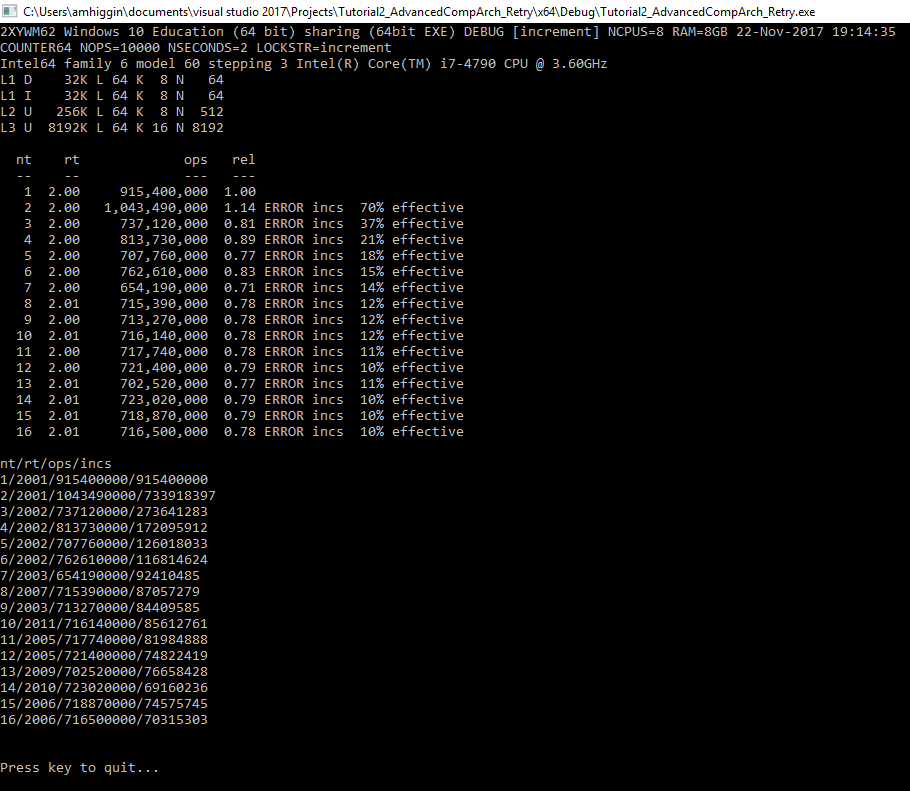
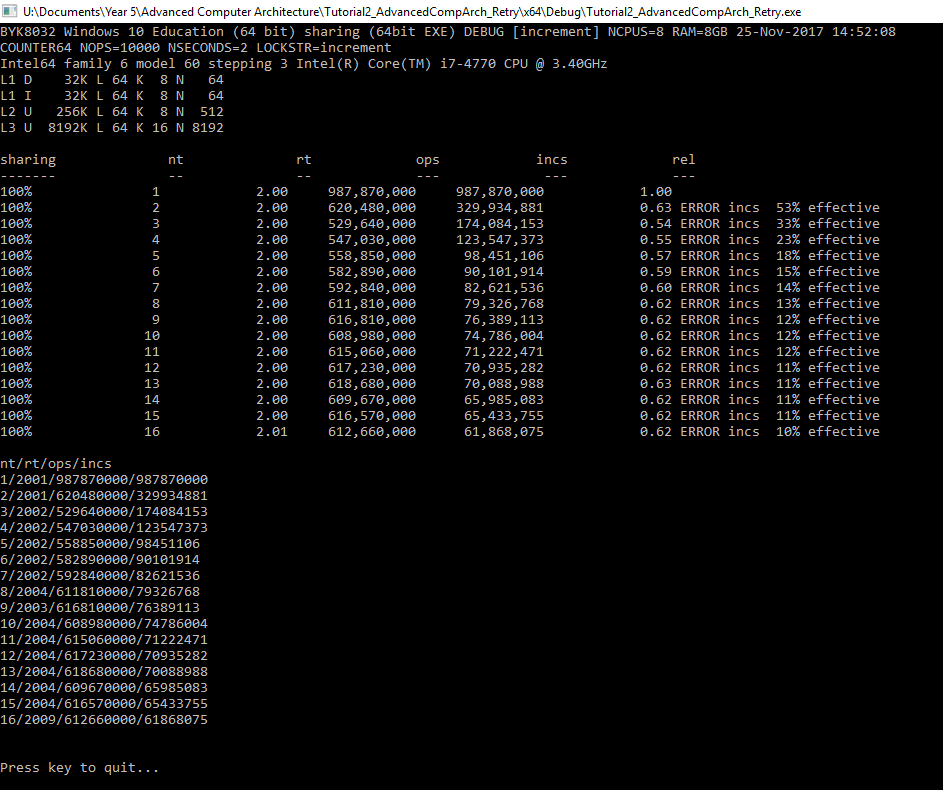
Making changes in line with requirements
Only wanted to have 100% sharing case investigated. Have removed the
bakery lock mfences for the moment so that I can see what ones are the
most effective once I have figured out the rest!

diff --git a/sharing.cpp b/sharing.cpp
@@ -113,7 +113,7 @@ int nt = 1;
 // 3::TestAndTestAndSetLock
 // 4::MCSLock
 //
-#define LOCKTYP       4                           // set op type
+#define LOCKTYP       4                          // set op type
 
 #if LOCKTYP == 0
 #define LOCKSTR       "increment"
@@ -183,32 +183,25 @@ WORKER worker(void *vthread)
 	
 	int thread = (int)((size_t)vthread);
 
+	// counter for number of operations performed by this thread
 	UINT64 n = 0;
 
 	volatile VINT *gt = GINDX(thread);
 	volatile VINT *gs = GINDX(maxThread);
 
-	runThreadOnCPU(thread % ncpu);
-
-	while (1) {
+	do {
 
 		//
 		// do some work
 		//
 		for (int i = 0; i < NOPS; i++) {
-			// note removed sharing-specific results
-				INC(gs);
+			INC(gs);
 		}
 		n += NOPS;
 
-		//
-		// check if runtime exceeded
-		//
-		if ((getWallClockMS() - tstart) > NSECONDS * 1000)
-			break;
+	} while (!((getWallClockMS() - tstart) > NSECONDS * 1000));
 
-	}
-
+	// update the  number of ops outside the loop to remove possible of false sharing
 	ops[thread] = n;
 	return 0;
 
@@ -291,16 +284,20 @@ int main()
 	//
 	// header
 	//
-	cout << setw(4) << "nt";
-	cout << setw(6) << "rt";
+	cout << "sharing";
+	cout << setw(16) << "nt";
+	cout << setw(16) << "rt";
 	cout << setw(16) << "ops";
-	cout << setw(6) << "rel";
+	cout << setw(16) << "incs";
+	cout << setw(16) << "rel";
 	cout << endl;
-
-	cout << setw(4) << "--";        // nt
-	cout << setw(6) << "--";        // rt
+	
+	cout << "-------";              // sharing
+	cout << setw(16) << "--";        // nt
+	cout << setw(16) << "--";        // rt
 	cout << setw(16) << "---";      // ops
-	cout << setw(6) << "---";       // rel
+	cout << setw(16) << "---";      // incs
+	cout << setw(16) << "---";       // rel
 	cout << endl;
 
 	//
@@ -316,6 +313,8 @@ int main()
 	// run tests
 	//
 	UINT64 ops1 = 1;
+	// want to check the case for 100% sharing only
+	sharing = 100;
 
 		for (int nt = 1; nt <= maxThread; nt++, indx++) {
 
@@ -355,16 +354,18 @@ int main()
 				r[indx].incs += *(GINDX(thread));
 			}
 			r[indx].incs += *(GINDX(maxThread));
-			if ((sharing == 0) && (nt == 1))
+			if ((sharing == 100) && (nt == 1))
 				ops1 = r[indx].ops;
 			r[indx].sharing = sharing;
 			r[indx].nt = nt;
 			r[indx].runTime = rt;
 
-			cout << setw(4) << nt;
-			cout << setw(6) << fixed << setprecision(2) << (double)rt / 1000;
+			cout << sharing << "%";
+			cout << setw(16) << nt;
+			cout << setw(16) << fixed << setprecision(2) << (double)rt / 1000;
 			cout << setw(16) << r[indx].ops;
-			cout << setw(6) << fixed << setprecision(2) << (double)r[indx].ops / ops1;
+			cout << setw(16) << r[indx].incs;
+			cout << setw(16) << fixed << setprecision(2) << (double)r[indx].ops / ops1;
 
 			if (r[indx].ops != r[indx].incs)
 				cout << " ERROR incs " << setw(3) << fixed << setprecision(0) << 100.0 * r[indx].incs / r[indx].ops << "% effective";
@@ -382,7 +383,7 @@ int main()
 	cout << endl;
 
 	//
-	// output results so they can easily be pasted into a spread sheet from console window
+	// output results so they can easily be pasted into a spread sheet getWallClockfrom console window
 	//
 	setLocale();
 	cout << "nt/rt/ops/incs";

diff --git a/BakeryLock.cpp b/BakeryLock.cpp
@@ -11,7 +11,7 @@ using namespace std;
 
 void BakeryLock::acquire(int pid) {
 	choosing[pid] = 1;
-	_mm_mfence();
+	//_mm_mfence();
 	unsigned long long max = 0;
 	for (int i = 0; i <threads; i++) { 
 		if (number[i] > max)
@@ -20,7 +20,7 @@ void BakeryLock::acquire(int pid) {
 	number[pid] = max + 1; 
 	choosing[pid] = 0;
 	// adding mfence
-	_mm_mfence();
+	//_mm_mfence();
 	for (int j = 0; j < threads; j++) { 
 		while (choosing[j]);
 		while ((number[j] != 0) && ((number[j] < number[pid]) || ((number[j] == number[pid]) && (j < pid))));
@@ -29,7 +29,7 @@ void BakeryLock::acquire(int pid) {
 void BakeryLock::release(int pid) {
 	number[pid] = 0; 
 	// adding another mfence
-	_mm_mfence();
+	//_mm_mfence();
 }
 
 void BakeryLock::setThreads(int _threads) {
